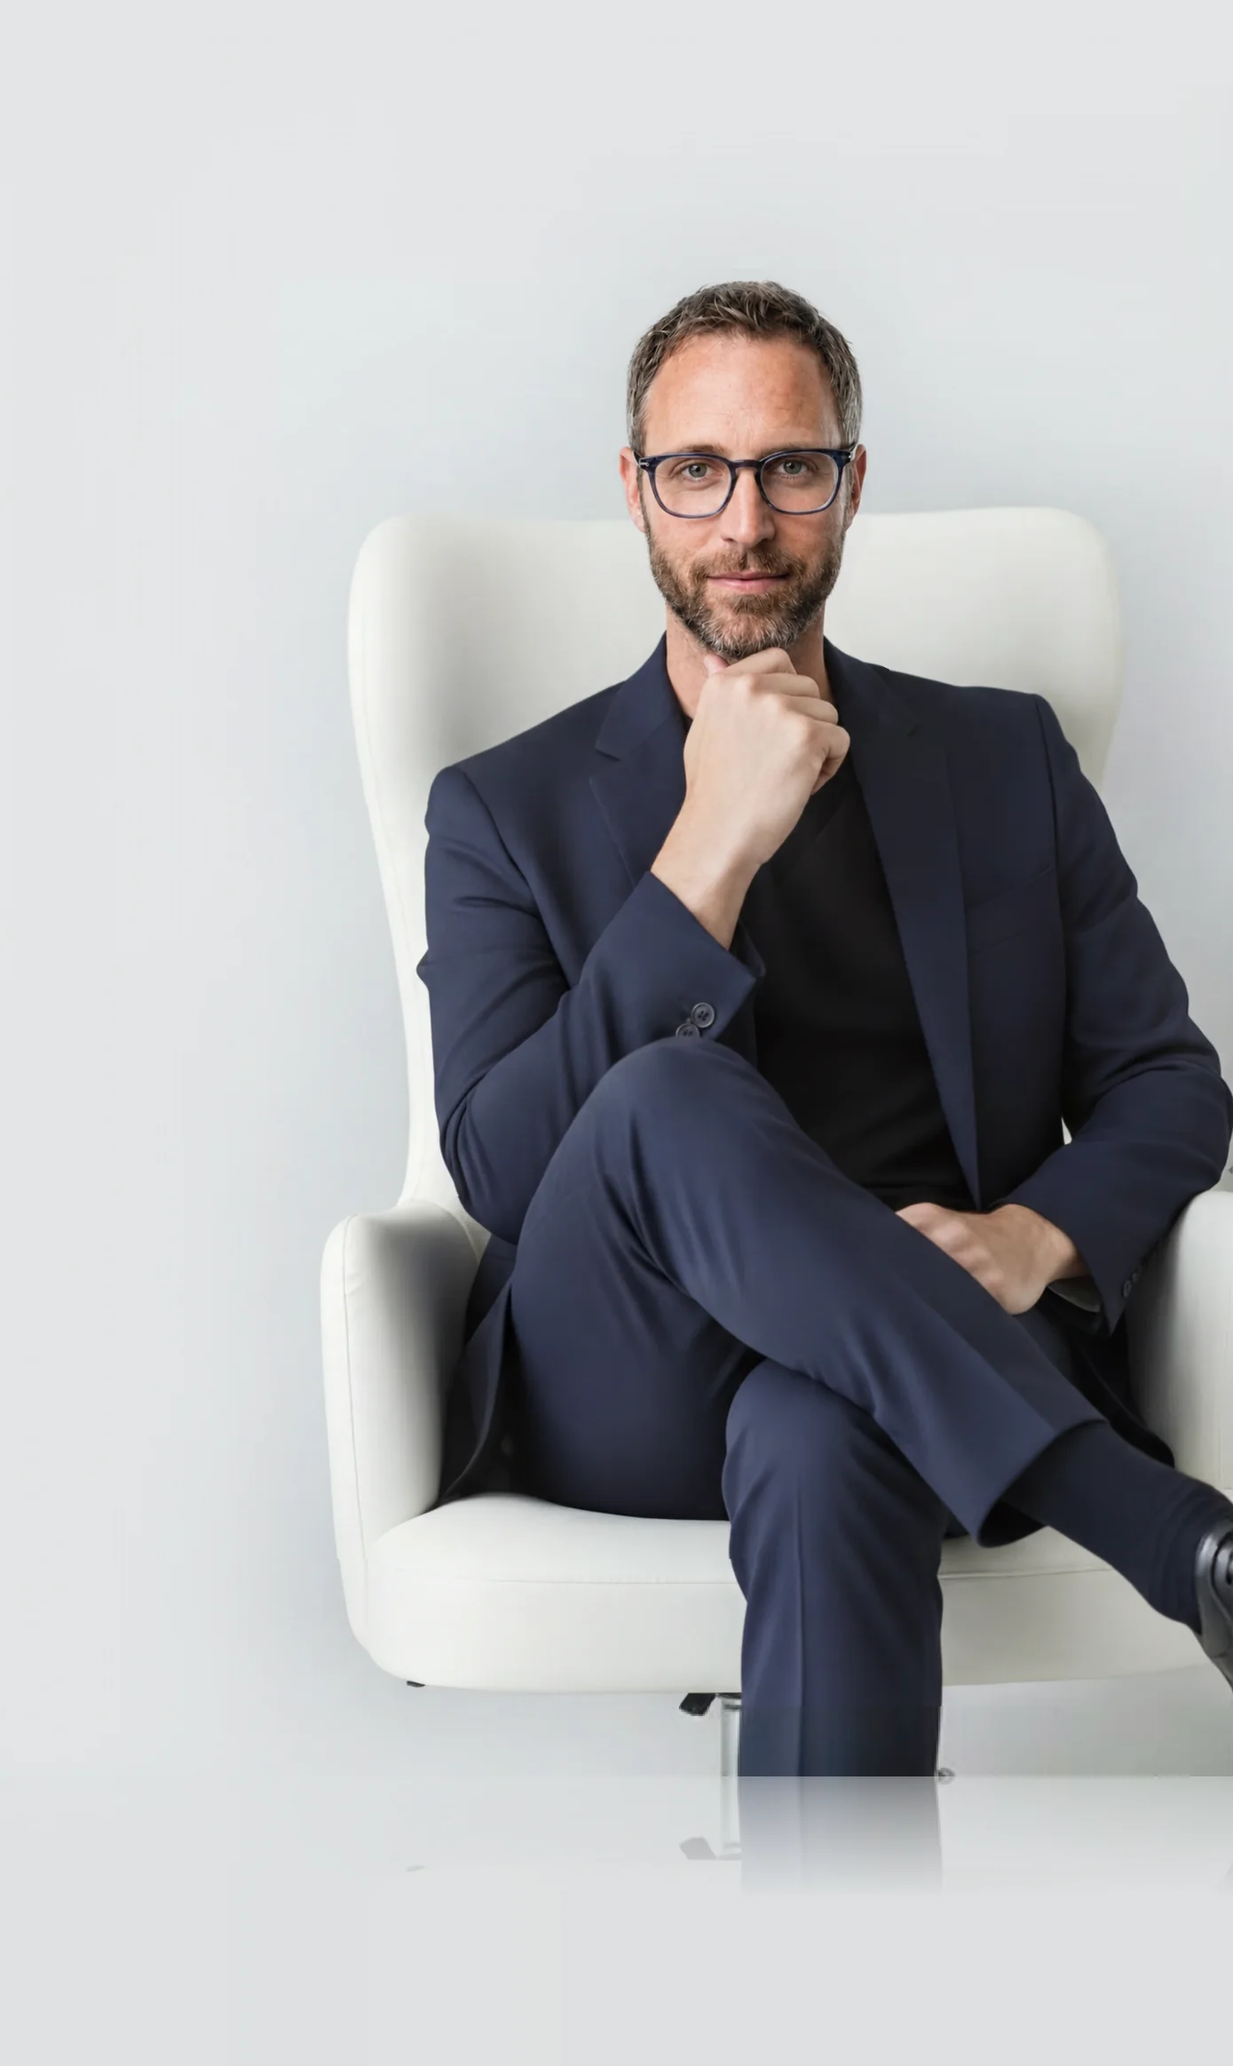
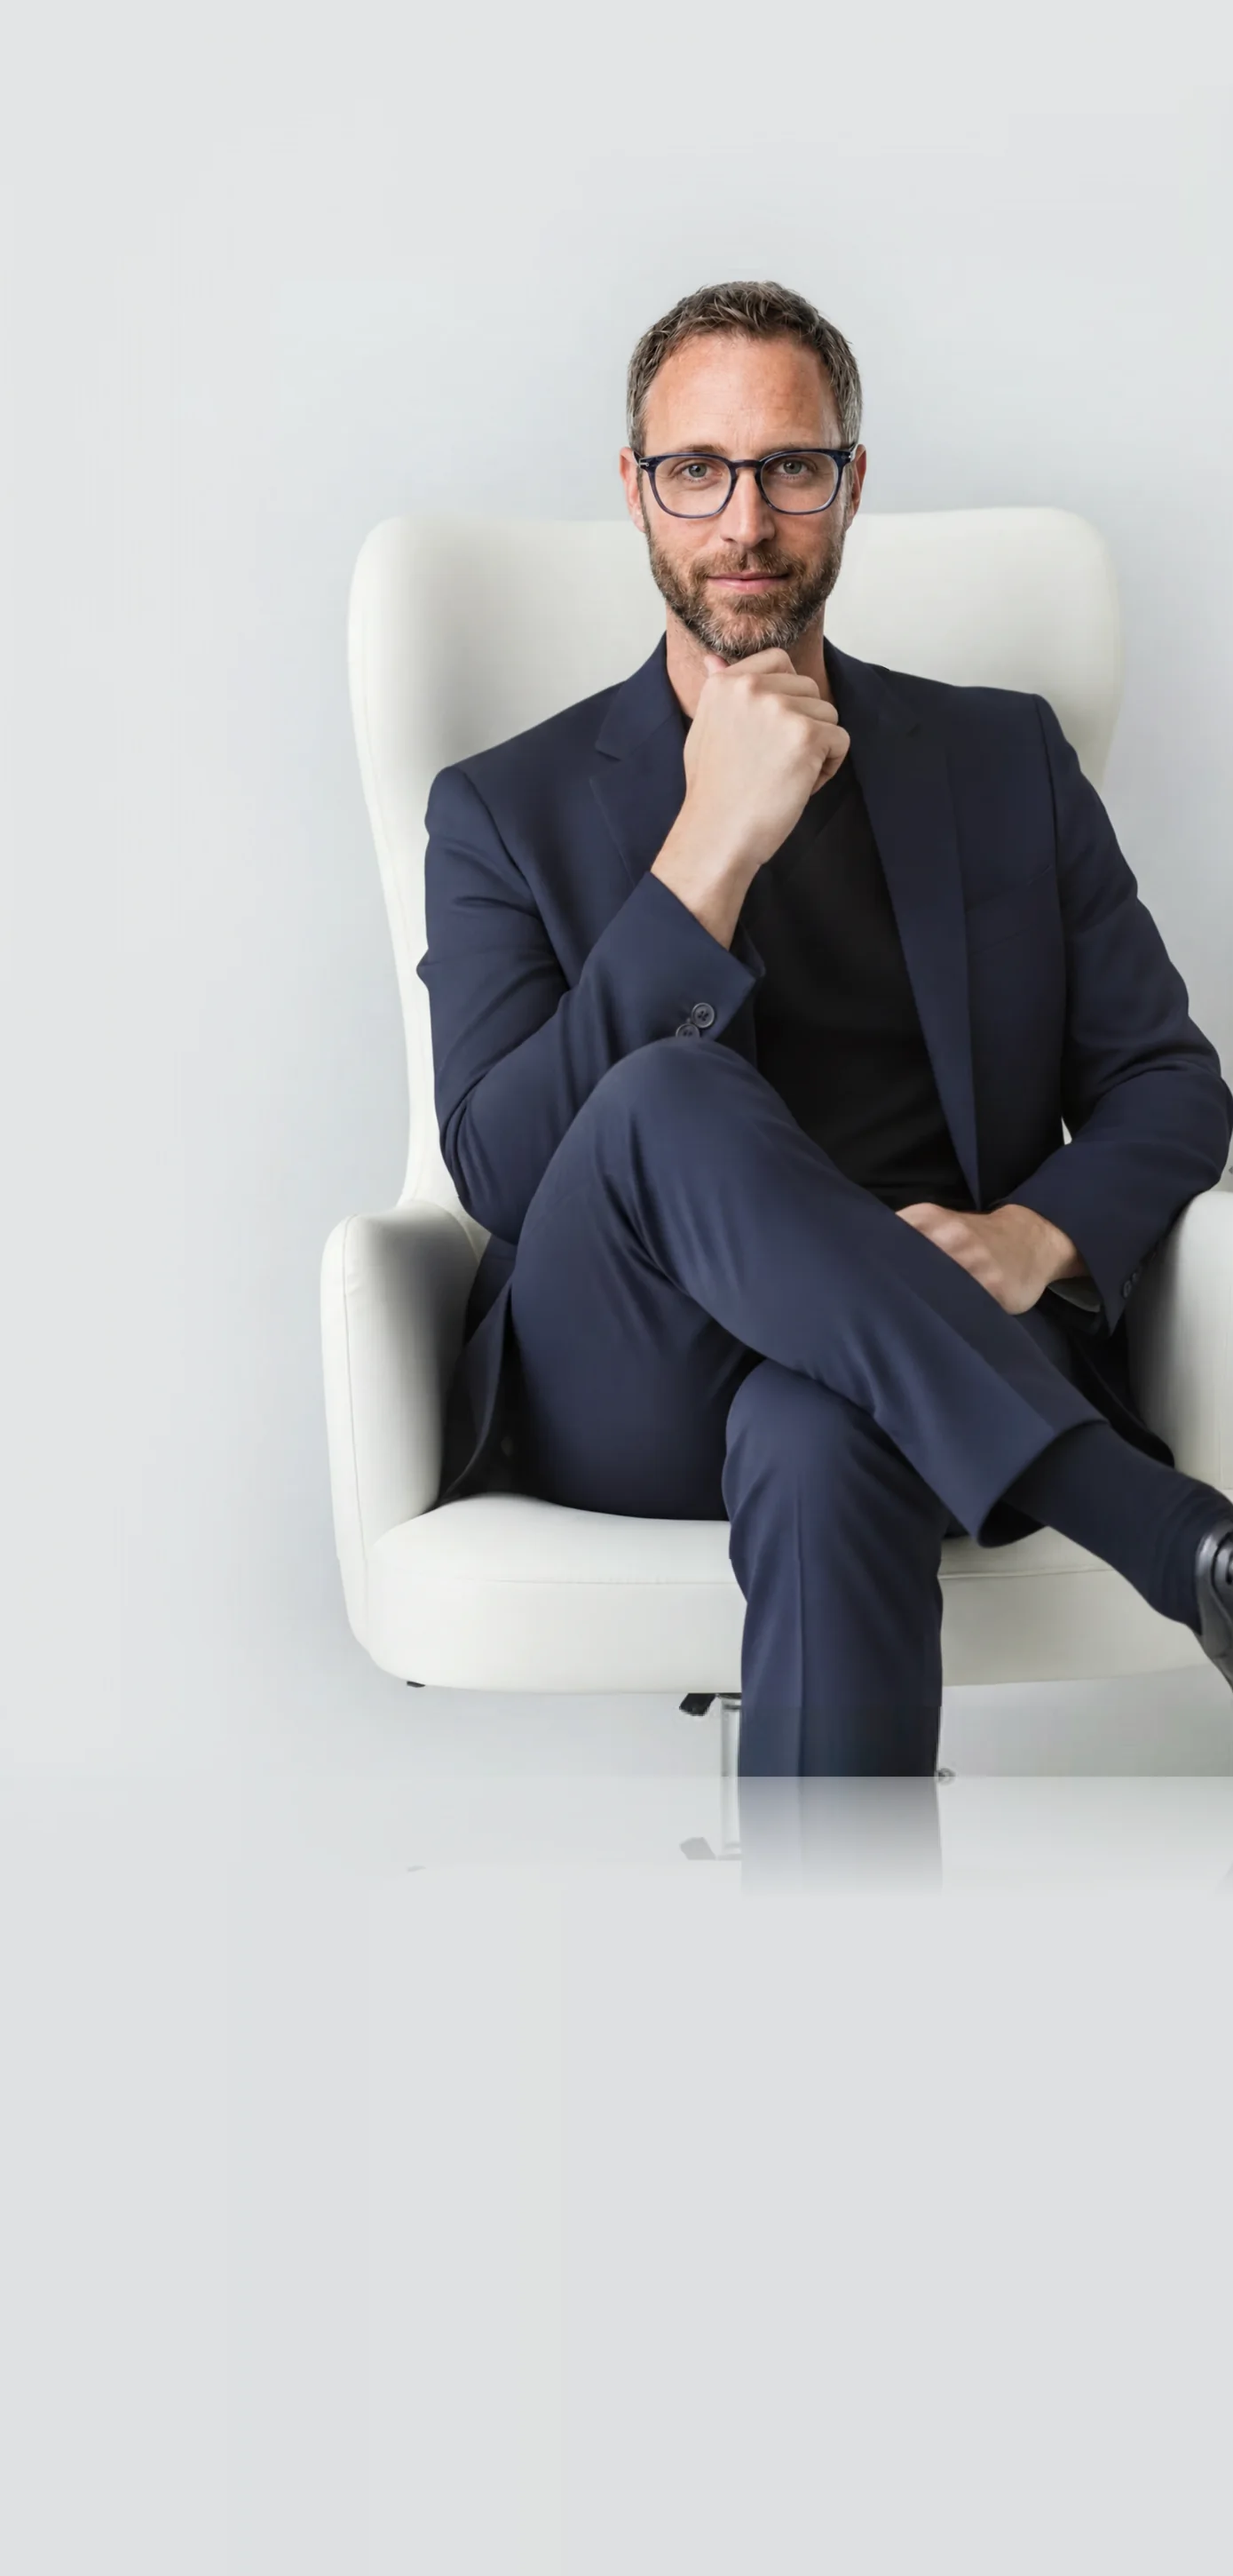
Give the artwork the reach the cut already had
"Borderline hidden" was the useful word. It meant the screen paints to
almost exactly where the diagonal now starts — which also meant the
photograph's own cropped edge, sitting 52px below the first screen, was
about to become the next thing showing through that strip. Trading a dark
wedge for a hard line under his chair is not a fix.

So the artwork reaches further instead of the numbers being nudged again.
The extension is 0.45 of the original rather than 0.163 — 966 rows instead
of 326, almost all of it the flat floor tone the generator settles into
past its 150 mirrored rows. The strip is 238px rather than 87.

He has not moved. --portrait-lift drops from 0.4 to 0.15 to spend the same
~36px of it on screen, so the composition is identical: subject height 531
at 1280, same as before, bar in the same place, same amount of generated
floor under him. What changed is everything below the fold — the artwork
reaches 196px past the first screen instead of 52.

And the overscan goes 96 to 144, because 96 was the borderline. It lives
in the clip-path, so buying that margin moves nothing.

On Will's numbers: the diagonal starts at 1020 and the photograph reaches
1065, against a paint edge that was borderline at 972. 48px and 93px of
margin where there were 0 and -44.

diff --git a/css/common.css b/css/common.css
@@ -154,19 +154,21 @@
      the generated floor on screen — too far, and the artwork's own bottom
      edge would come up past the cut.
      
-     0.4: he rises 34 to 48px depending on the width, with the floor and
-     the reflection reading beneath him, and what is left of the sink
-     still clears the slope by 13px at the tightest width.
+     0.15 of a strip that is now 0.45 of the artwork — which is the same
+     ~36px on screen that 0.4 of the old 0.163 strip gave. He sits exactly
+     where he did; what changed is how far the artwork reaches below him.
+     
+     That reach is the point. The strip has to cover the gap between the
+     bottom of the first screen and however far a phone paints past it,
+     or his cropped edge surfaces there instead of the diagonal. On Will's
+     device that gap measured at least 96px and "borderline"; 52px of
+     reach was not going to survive it. It is 157px now.
      
      This was 0 for one round, because the first extension was blurred and
      putting it on screen was worse than cropping his feet. The extension
-     is sharp now, so the room is worth spending.
-     
-     Do not go past 0.5. The margin left over rests on a measurement of
-     where the photograph's content begins across its bottom edge (33.5%
-     in from the left, sampled from the artwork), and 0.5 spent all of it
-     — 4.5px at 768. */
-  --portrait-lift: 0.4;
+     is sharp now, so the room is worth spending — but only 35px of it,
+     which is as much generated floor as looks right under him. */
+  --portrait-lift: 0.15;
 
   /* The displayed height of the added strip: height x extra / (1 + extra). */
   --portrait-strip: calc(var(--portrait-height) * var(--portrait-extra) / (1 + var(--portrait-extra)));
@@ -187,7 +189,7 @@
      the first screen and is what the cut eats, instead of his feet. Set
      this to 0 and put the unextended artwork back and everything returns
      to where it was. */
-  --portrait-extra: 0.163;
+  --portrait-extra: 0.45;
 
   /* -------------------- Filters -------------------- */
   --icon-filter: invert(0);  /* Icon color filter (0 = no inversion for light mode) */
@@ -286,7 +288,11 @@ input[type=number] {
    and the page paints behind it by an amount nothing will tell you. */
 @media (hover: none) {
   :root {
-    --chrome-overscan: 96px;
+    /* 96 put the diagonal exactly at the edge of what the screen paints
+       — "borderline hidden" in Will's words, which is no margin at all.
+       144 is comfortably past it, and because it lives in the clip-path
+       rather than in any box, buying that margin moves nothing. */
+    --chrome-overscan: 144px;
   }
 }
 

diff --git a/index.html b/index.html
@@ -43,7 +43,7 @@
     <link href="assets/favicon.png" rel="icon" type="image/png">
 
     <!-- Other links, like styles -->
-    <link href="css/index.css?v=5c7c9eaf" rel="stylesheet" type="text/css">
+    <link href="css/index.css?v=37d0b3ba" rel="stylesheet" type="text/css">
 
     <!-- Page script -->
     <script src="scripts/index.js?v=ef83d6da" type="module" defer></script>

diff --git a/css/index.css b/css/index.css
@@ -1,7 +1,7 @@
 /* Import base styles and variables from common.css and others */
-@import "./common.css?v=738aa84c";
-@import "./chat-input.css?v=0f43470e";
-@import "./chat-content.css?v=7e51fc58";
+@import "./common.css?v=a20a9453";
+@import "./chat-input.css?v=10db016d";
+@import "./chat-content.css?v=e7abee03";
 @import "./more.css?v=c2efb781";
 
 /* 

diff --git a/css/chat-input.css b/css/chat-input.css
@@ -1,5 +1,5 @@
 /* Import base styles and variables from common.css */
-@import "./common.css?v=738aa84c";
+@import "./common.css?v=a20a9453";
 
 /* 
  * =====================================================

diff --git a/css/chat-content.css b/css/chat-content.css
@@ -1,5 +1,5 @@
 /* Import base styles and variables from common.css */
-@import "./common.css?v=738aa84c";
+@import "./common.css?v=a20a9453";
 @import "./thinking-loader.css?v=b8e27d2d";
 
 /* 
